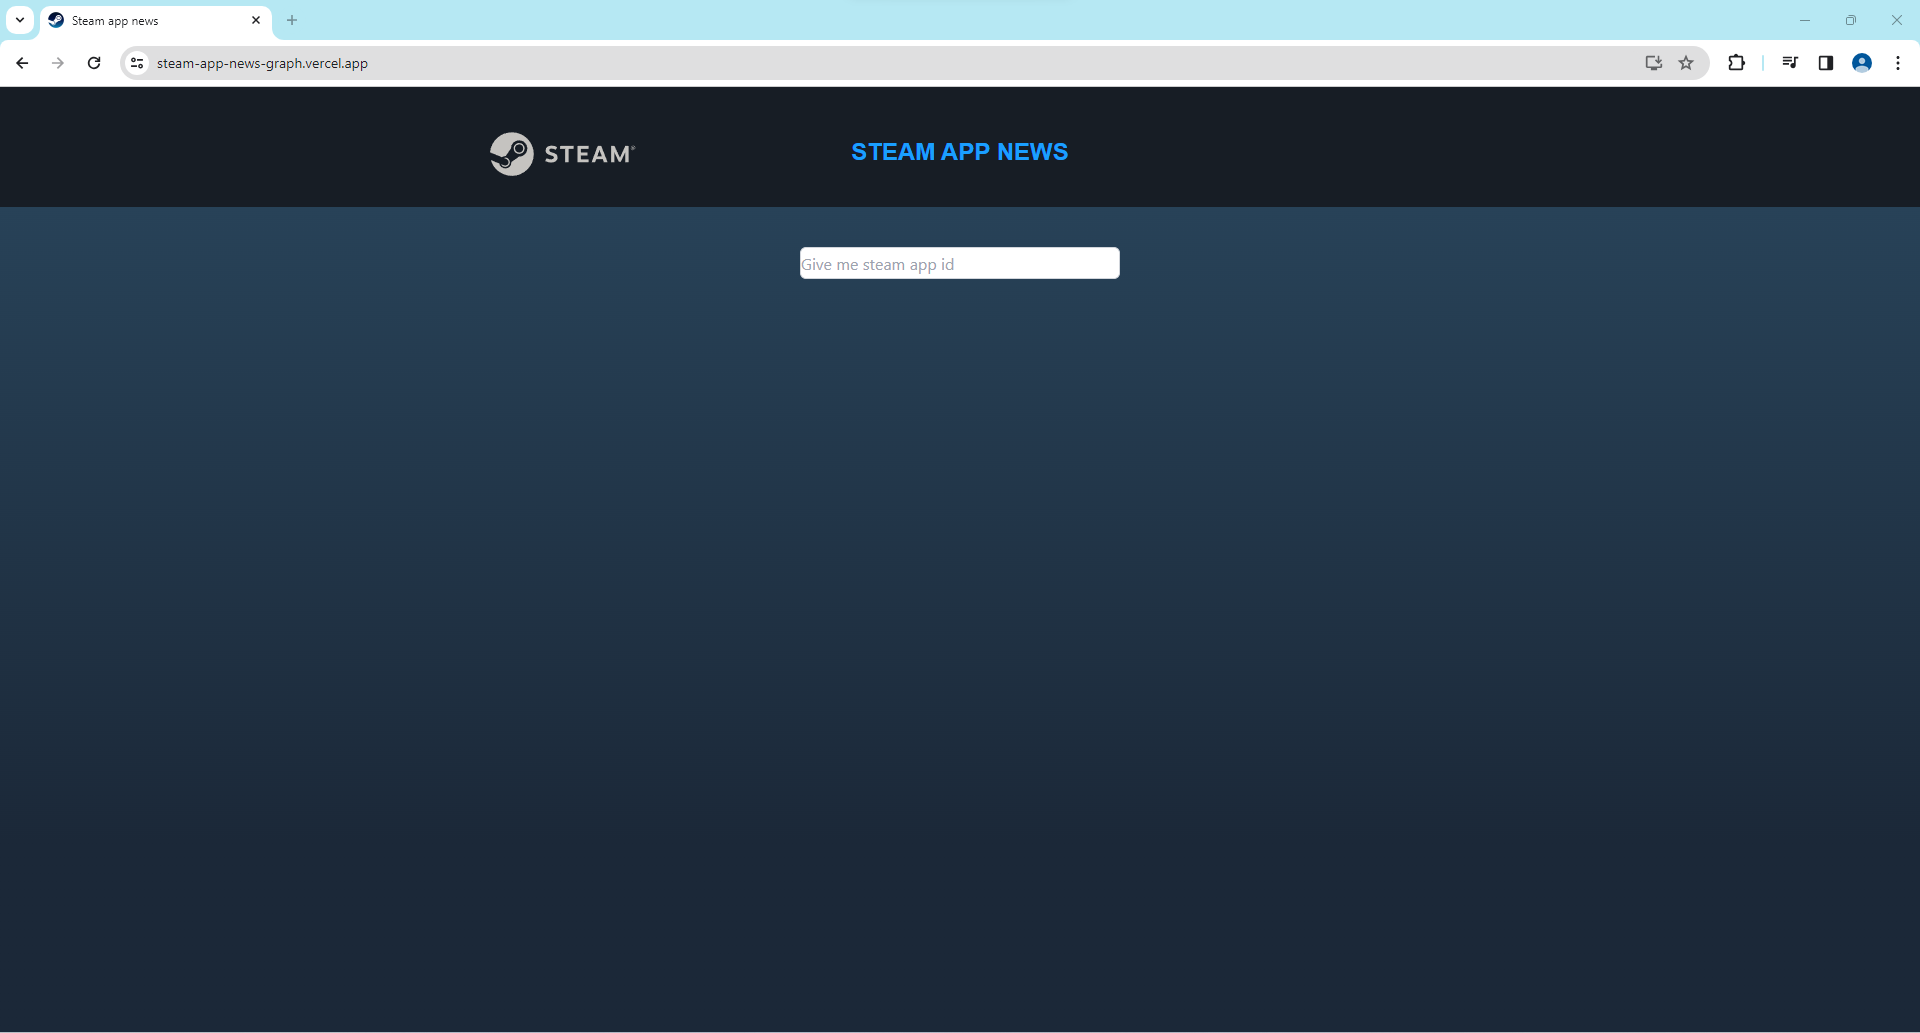
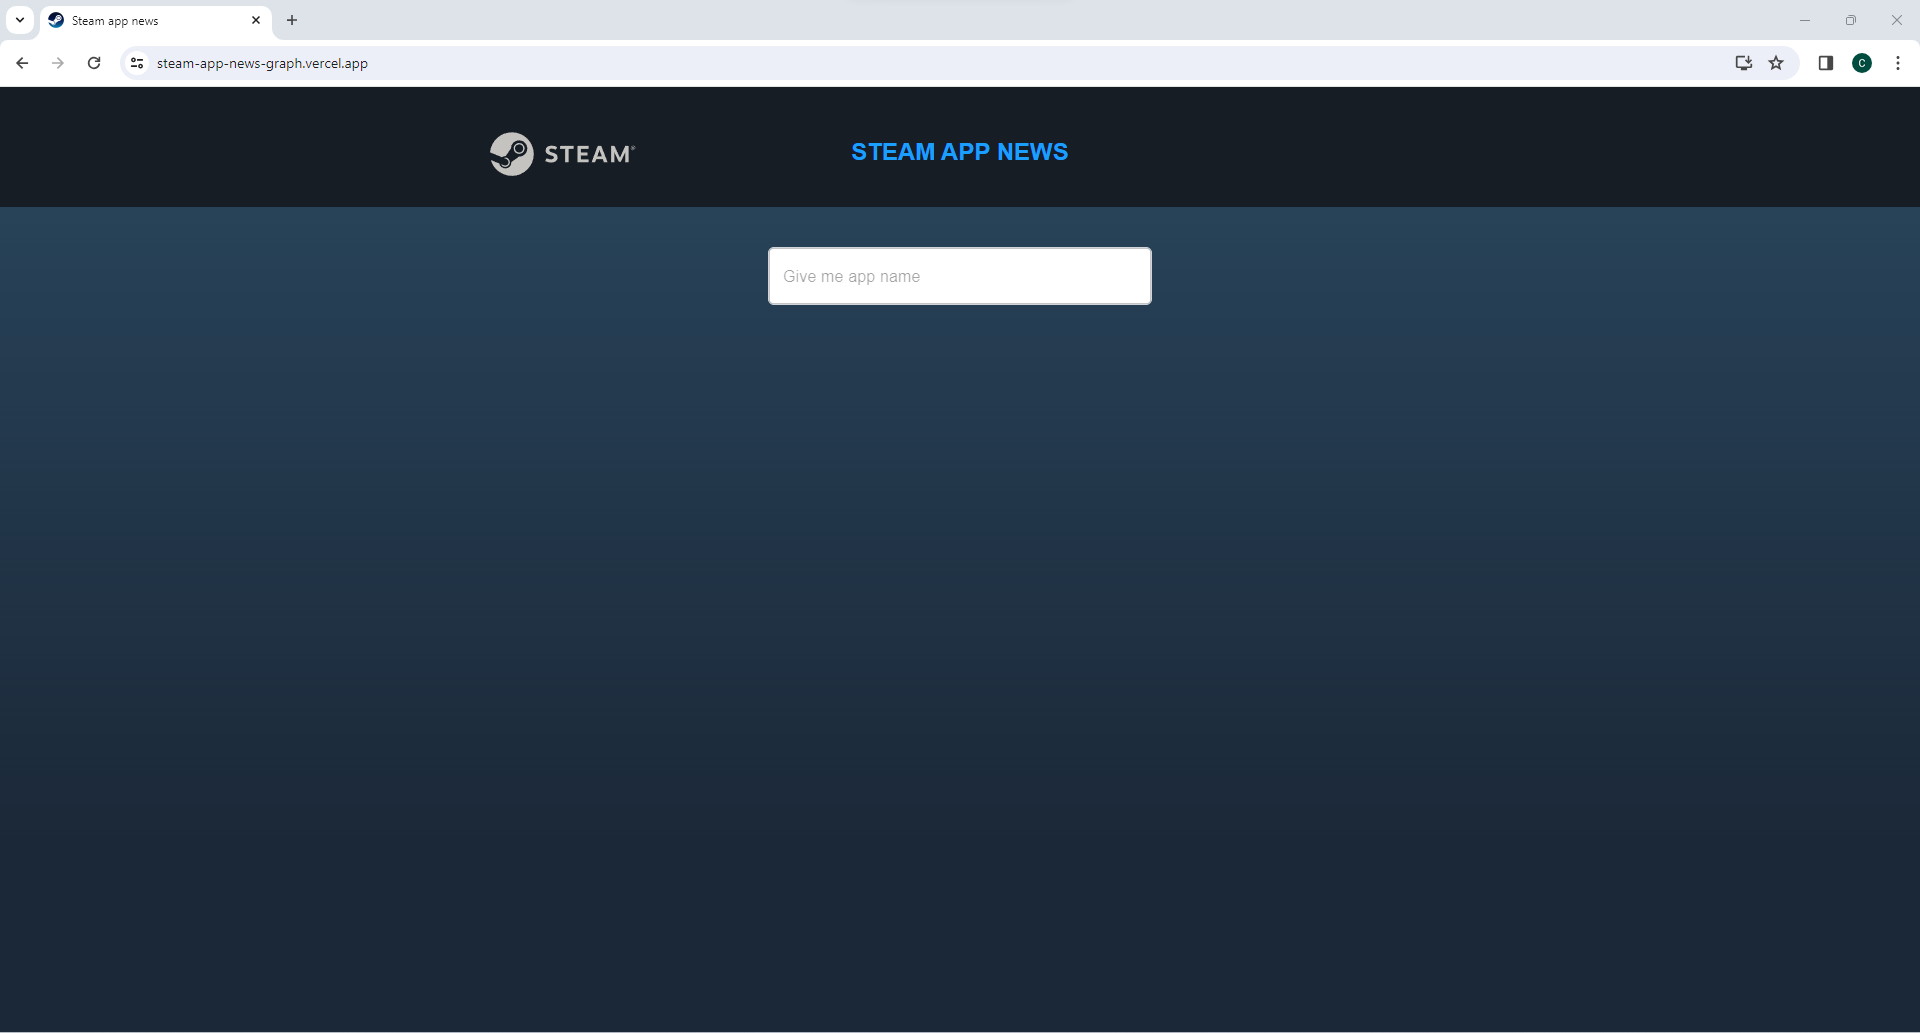
new vers

Changed region(s): [[0.0, 0.0, 1.0, 0.062], [0.375, 0.2168, 0.625, 0.3098]]

diff --git a/src/pages/steamappnewsold.tsx b/src/pages/steamappnewsold.tsx
@@ -4,18 +4,18 @@ function steamappnews() {
     return (
       <div className="flex items-center h-screen overflow-hidden">
           <div className="mt-72 max-w-3xl">
-            <Header currentpage="san"/>
+            <Header currentpage="sano"/>
             <div className="overflow-auto flex flex-col gap-5 max-h-screen pb-72">
               <p className="mx-auto pt-5">Steam App News</p>
               <a href="https://steam-app-news-graph.vercel.app" className="mx-auto pt-5 text-red-500 underline">Click  here to get into my website</a>
-              <img width="80%" className="mx-auto" src="/images/steam/overview.png" />
+              <img width="80%" className="mx-auto" src="/images/steamo/overview.png" />
               <p className="mx-auto">This is what this page looks like</p>
               <div className="flex flex-row items-center">
-                <img width="30%" src="/images/steam/search.gif" className="mr-10 ml-10" />
-                <p>Search your app</p>
+                <img width="30%" src="/images/steamo/appid.png" className="mr-10 ml-10" />
+                <p>First you need to type app id<br/>easiest way is to go to store page and check Url<br/></p>
               </div>
-              <img width="80%" className="mx-auto" src="/images/steam/enter.gif" />
-              <p className="mx-auto">Press enter, graph will showup</p>
+              <img width="80%" className="mx-auto" src="/images/steamo/enter.gif" />
+              <p className="mx-auto">Type down your app id and enter, graph will showup</p>
               <img width="80%" className="mx-auto" src="/images/steamo/click.gif" />
               <p className="mx-auto">Each point on graph will give you a title and release date</p>
               <p className="mx-auto">and when you click ...boom news is popup</p>

diff --git a/src/pages/index.tsx b/src/pages/index.tsx
@@ -23,14 +23,17 @@ export default function Home() {
         <ThemeProvider theme={theme}>
             <Stack className="self-center"spacing={3}>
                 <Link href="/gridgen">
-                  <Button className="font-bold" variant="outlined" color="secondary">GRID-GENERATOR</Button>
+                  <Button className="font-bold w-full" variant="outlined" color="secondary">GRID-GENERATOR</Button>
                 </Link>
                 <Link href="/gallery">
                   <Button className="font-bold w-full" variant="outlined" color="secondary">GALLERY</Button>
                 </Link>
                 
+                <Link href="/steamappnewsold">
+                  <Button className="font-bold w-full" variant="outlined" color="secondary">STEAM-APP-NEWS (OLD)</Button>
+                </Link>
                 <Link href="/steamappnews">
-                  <Button className="font-bold" variant="outlined" color="secondary">STEAM-APP-NEWS</Button>
+                  <Button className="font-bold w-full" variant="outlined" color="secondary">STEAM-APP-NEWS (NOW)</Button>
                 </Link>
                 
             </Stack>

diff --git a/src/pages/header.tsx b/src/pages/header.tsx
@@ -33,8 +33,11 @@ function header(props:props) {
             <Button disabled={currentpage=="g"} className="font-bold w-full" variant="text" color="secondary">GALLERY</Button>
           </Link>
             
+          <Link href="/steamappnewsold">
+            <Button disabled={currentpage=="sano"} className="font-bold" variant="text" color="secondary">STEAM-APP-NEWS(OLD)</Button>
+          </Link>
           <Link href="/steamappnews">
-            <Button disabled={currentpage=="san"} className="font-bold" variant="text" color="secondary">STEAM-APP-NEWS</Button>
+            <Button disabled={currentpage=="san"} className="font-bold" variant="text" color="secondary">STEAM-APP-NEWS(NOW)</Button>
           </Link>
         </Toolbar>
       </AppBar>
